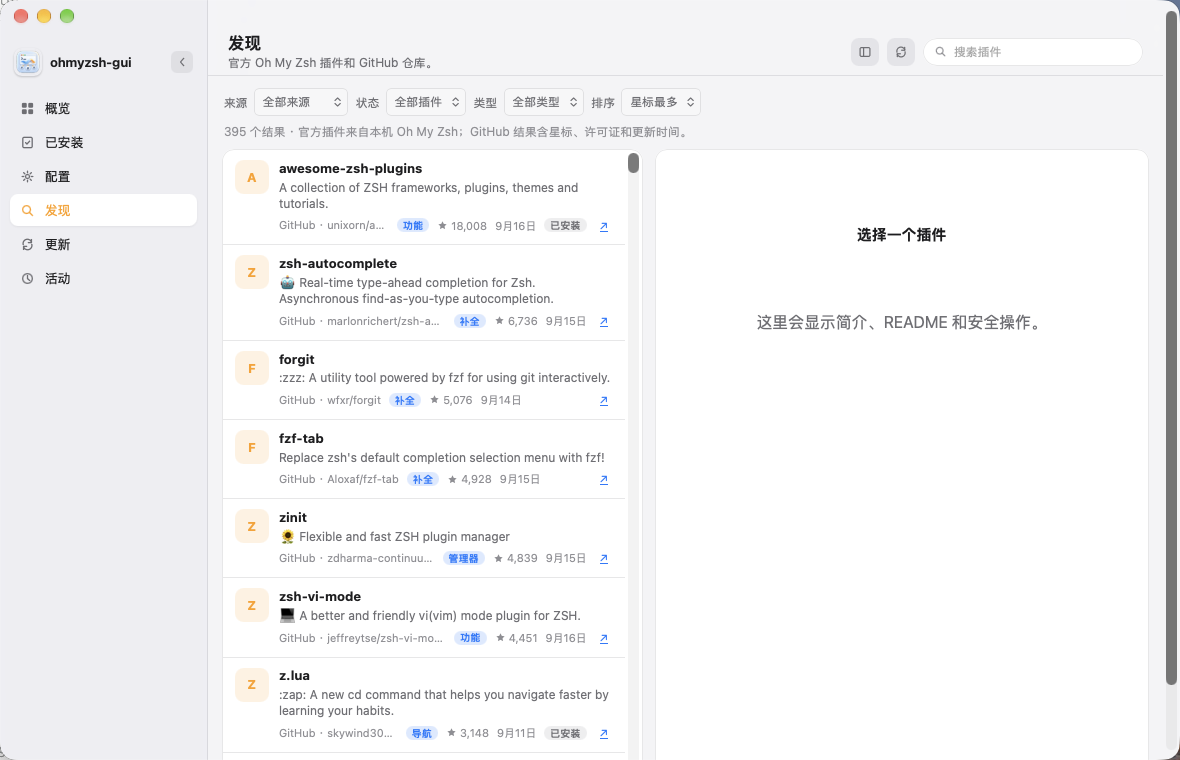
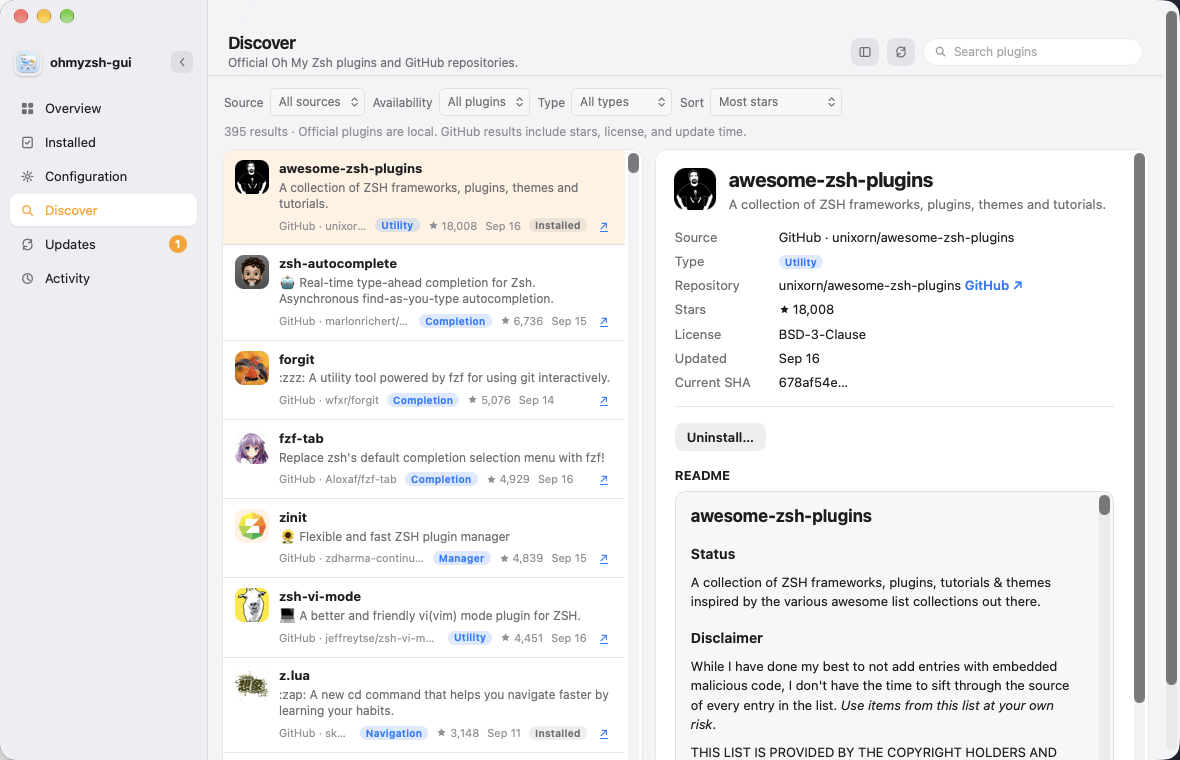
Add MIT license and unbreak Linux/Windows CI checks.
Install WebKit/GTK on Ubuntu, skip zsh-backed tests when zsh is missing, and replace README screenshots with the English UI.

diff --git a/src-tauri/src/engine.rs b/src-tauri/src/engine.rs
@@ -1390,6 +1390,9 @@ mod tests {
         let changed = "ZSH_THEME=\"new\"\nplugins=(git brew)\n";
         fs::write(&config_path, original).unwrap();
         let env = Environment::at(home).unwrap();
+        if !env.tool_available("zsh") {
+            return;
+        }
         let backup = env.write_config(original, changed).unwrap();
         let mut manager = Manager {
             env,

diff --git a/src-tauri/src/system.rs b/src-tauri/src/system.rs
@@ -323,6 +323,9 @@ mod tests {
         )
         .unwrap();
         let env = Environment::at(home).unwrap();
+        if !env.tool_available("zsh") {
+            return;
+        }
         let before = env.source().unwrap();
         let d = Document::parse(before.clone());
         let after = d

diff --git a/README.md b/README.md
@@ -4,7 +4,7 @@
 
 A desktop app for Oh My Zsh plugins, themes, and `.zshrc`. Every change is previewed, backed up, and syntax-checked before Apply.
 
-**1.0** · Tauri 2 · macOS / Windows / Linux · [English](#english) · [简体中文](#简体中文)
+**1.0** · MIT · Tauri 2 · macOS / Windows / Linux · [English](#english) · [简体中文](#简体中文)
 
 <p align="center">
   <img src="src-tauri/icons/128x128.png" width="72" alt="ohmyzsh-gui">
@@ -105,3 +105,7 @@ cargo test --manifest-path src-tauri/Cargo.toml
 ```
 
 `cargo test --manifest-path src-tauri/Cargo.toml -- --ignored` runs the live GitHub lifecycle smoke test in a temporary `HOME`.
+
+## License
+
+[MIT](LICENSE)
